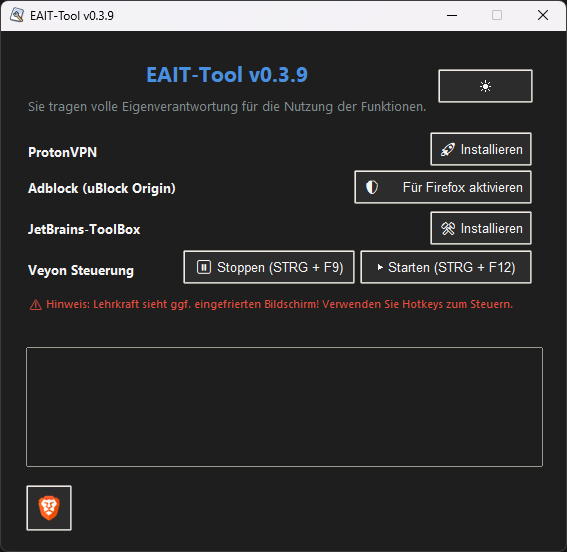
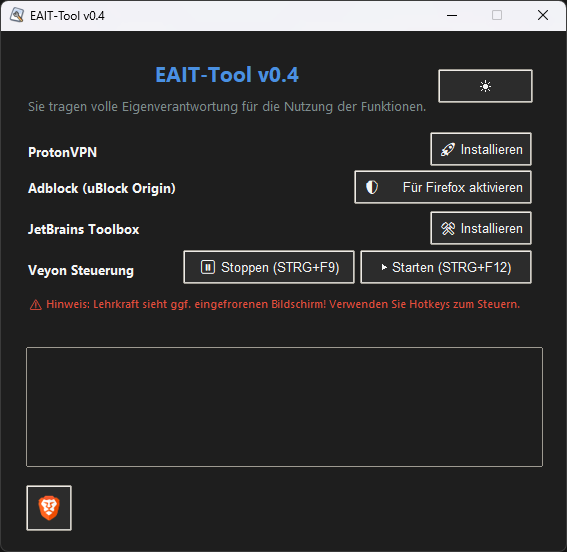
Update to v0.4

diff --git a/EAIT-Tool.py b/EAIT-Tool.py
@@ -1,186 +1,223 @@
-import traceback
+import os
+import sys
+import time
+import threading
+import tkinter as tk
+from tkinter import ttk
 from config import VERSION
 from admin import *
 from functions import *
 from veyon import *
-from tkinter import *
-from tkinter import ttk
-import tkinter as tk
 import PIL.Image
 import PIL.ImageTk
-import traceback
-from config import VERSION
-from admin import *
-from functions import *
-from veyon import *
-
-# Wichtig für Brave Icon
-image_refs = {}
-
-# ---------------------- Window Setup ----------------------
 
 root = tk.Tk()
-root.title(f"EAIT-Tool v{VERSION()}")
-mainframe = ttk.Frame(root, padding=25)
-mainframe.grid(row=0, column=0, sticky="nsew")
-status_var = StringVar()
+root.withdraw()
 
-# Custom Cursor
-cursor_path = os.path.join(os.path.dirname(__file__), "adobe_normal.cur")
-cursor_string = f"@{cursor_path.replace(os.sep, '/')}"  # Windows-kompatibel machen!
-try:
-    root.config(cursor=cursor_string)
-    print("✅ Custom Cursor gesetzt:", cursor_string)
-except Exception as e:
-    print("❌ Cursor Error:", e)
-    root.config(cursor="arrow")
+status_var = None
+status_label = None
+image_refs = {}
 
-# Modernes Design-Setup
-BG_COLOR = "#F3F3F3"
-ACCENT_COLOR = "#4a90e2"
-WARNING_COLOR = "#e74c3c"
-FONT_FAMILY = "Segoe UI"
+def show_loading_screen(parent_root):
+    loading = tk.Toplevel(parent_root)
+    loading.title("EAIT-Tool is loading...")
+    loading.configure(bg="#1e1e1e")
+    loading.resizable(False, False)
+    loading.attributes("-topmost", True)
+    loading.overrideredirect(True)
 
-# Icon setzen
-try:
-    icon_path = resource_path(os.path.join("data", "icon.ico"))
-    root.iconbitmap(default=icon_path)
-except Exception as e:
-    print(f"⚠ Icon konnte nicht gesetzt werden: {e}")
+    # Fenster zentrieren
+    win_w, win_h = 400, 120
+    screen_w = loading.winfo_screenwidth()
+    screen_h = loading.winfo_screenheight()
+    x = (screen_w // 2) - (win_w // 2)
+    y = (screen_h // 2) - (win_h // 2)
+    loading.geometry(f"{win_w}x{win_h}+{x}+{y}")
 
-root.configure(bg=BG_COLOR)
-window_width = 565
-window_height = 520  
+    # Dunkelblaues Adobe-Theme
+    style = ttk.Style(loading)
+    style.theme_use('clam')
+    style.configure(
+        "Adobe.Horizontal.TProgressbar",
+        troughcolor="#2A2A2A",
+        background="#1A5496",
+        bordercolor="#1A5496",
+        lightcolor="#1A5496",
+        darkcolor="#1A5496",
+    )
 
-screen_width = root.winfo_screenwidth()
-screen_height = root.winfo_screenheight()
+    label = tk.Label(loading, text="Loading EAIT-Tool...", fg="white", bg="#1e1e1e", font=("Segoe UI", 12))
+    label.pack(pady=(20, 5))
 
-center_x = int(screen_width/2 - window_width/2)
-center_y = int(screen_height/2 - window_height/2)
+    # Wichtig: mode="indeterminate" → Endlos-Balken
+    progress = ttk.Progressbar(
+        loading,
+        orient="horizontal",
+        mode="indeterminate",
+        length=300,
+        style="Adobe.Horizontal.TProgressbar"
+    )
+    progress.pack(pady=(5, 10))
 
-root.geometry(f"{window_width}x{window_height}+{center_x}+{center_y}")
-root.resizable(False, False)
+    progress["value"] = 0
+    loading.update()
 
-# Style Configuration
-style = ttk.Style()
-style.theme_use('clam')
-style.configure('TFrame', background=BG_COLOR)
-style.configure('TLabel', background=BG_COLOR, foreground="black", font=(FONT_FAMILY, 10))
-style.configure('TButton', font=(FONT_FAMILY, 10), padding=6)
+    # Starte Endlos-Animation
+    progress.start(10)  # alle 10ms Schritt; je höher, desto schneller die Animation
 
-# Main Frame
-root.grid_rowconfigure(0, weight=1)
-root.grid_columnconfigure(0, weight=1)
+    def init_tasks():
+        try:
+            # ----------------
+            # 1) Admin Check
+            if not is_admin():
+                loading.destroy()
+                sys.exit(1)
 
-# ---------------------- GUI Setup ----------------------
+            # 2) build_main_gui
+            build_main_gui()
 
-# Header Section
-header_frame = ttk.Frame(mainframe)
-header_frame.grid(row=0, column=0, columnspan=2, pady=(0, 15), sticky="ew")
-# Theme Toggle Button im Header
-theme_btn_text = StringVar(value="     ☀")  
-theme_btn = ttk.Button(header_frame, textvariable=theme_btn_text, command=lambda: toggle_theme(theme_btn_text))
-theme_btn.pack(side="right", padx=10)
+            # 3) Hotkeys
+            start_stop_hotkeys()
 
-ttk.Label(header_frame, 
-         text=f"EAIT-Tool v{VERSION()}", 
-         font=(FONT_FAMILY, 16, "bold"), 
-         foreground=ACCENT_COLOR).pack(side="top")
+            # 4) apply_theme
+            apply_theme()
 
-ttk.Label(header_frame, 
-         text="Sie tragen volle Eigenverantwortung für die Nutzung der Funktionen.",
-         font=(FONT_FAMILY, 10), 
-         foreground="#7f8c8d").pack(side="top", pady=(5, 0))
+            # 5) Cursor
+            set_custom_cursors(parent_root,
+                resource_path("data/adobe_normal.cur"),
+                resource_path("data/adobe_click.cur")
+            )
+            # usw... was du willst
 
-# Tools Grid
-tools_grid = ttk.Frame(mainframe)
-tools_grid.grid(row=1, column=0, columnspan=2, sticky="ew")
+        except Exception as e:
+            print(f"Fehler: {e}")
+            # evtl. label.config(text="Fehler...")
+            # und/oder sys.exit
+        finally:
+            # Alle Tasks fertig → Indeterminate Bar stoppen
+            root.after(0, lambda: [
+                progress.stop(),
+                loading.destroy(),
+                parent_root.deiconify()
+            ])
 
-# VPN Section
-ttk.Label(tools_grid, text="ProtonVPN", font=(FONT_FAMILY, 10, "bold")).grid(row=0, column=0, sticky="w", pady=(10,5))
-ttk.Button(tools_grid, 
-         text="🚀 Installieren", 
-         command=start_protonvpn_portable,
-         style="Accent.TButton").grid(row=0, column=1, sticky="e")
+    # Thread starten, damit GUI nicht blockiert wird
+    threading.Thread(target=init_tasks, daemon=True).start()
 
-# Adblock Section
-ttk.Label(tools_grid, text="Adblock (uBlock Origin)", font=(FONT_FAMILY, 10, "bold")).grid(row=1, column=0, sticky="w", pady=10)
-ttk.Button(tools_grid, 
-         text="🛡 Für Firefox aktivieren", 
-         command=install_adblock).grid(row=1, column=1, sticky="e")
+def build_main_gui():
+    global status_var, status_label
 
-# Toolbox Section
-ttk.Label(tools_grid, text="JetBrains-ToolBox", font=(FONT_FAMILY, 10, "bold")).grid(row=2, column=0, sticky="w", pady=10)
-ttk.Button(tools_grid, 
-         text="⚒ Installieren", 
-         command=start_toolbox_portable).grid(row=2, column=1, sticky="e")
+    root.title(f"EAIT-Tool v{VERSION()}")
+    mainframe = ttk.Frame(root, padding=25)
+    mainframe.grid(row=0, column=0, sticky="nsew")
+    status_var = tk.StringVar()
 
-# Veyon Section
-ttk.Label(tools_grid, text="Veyon Steuerung", font=(FONT_FAMILY, 10, "bold")).grid(row=3, column=0, sticky="w", pady=(10,5))
-btn_frame = ttk.Frame(tools_grid)
-btn_frame.grid(row=3, column=1, sticky="e")
+    # Cursor
+    cursor_path = resource_path(os.path.join("data", "adobe_normal.cur"))
+    try:
+        root.config(cursor=f"@{cursor_path.replace(os.sep, '/')}")
+    except Exception as e:
+        print(f"⚠ Cursor-Setzen fehlgeschlagen: {e}")
+        root.config(cursor="arrow")
 
-ttk.Button(btn_frame, 
-         text="⏸ Stoppen (STRG + F9)", 
-         command=lambda: toggle_process_state(True),
-         width=22).pack(side="left", padx=5)
-ttk.Button(btn_frame, 
-         text="▶ Starten (STRG + F12)", 
-         command=clear_and_restart_veyon,
-         width=22).pack(side="left")
+    BG_COLOR = "#F3F3F3"
+    ACCENT_COLOR = "#4a90e2"
+    WARNING_COLOR = "#e74c3c"
+    FONT_FAMILY = "Segoe UI"
 
-# Warning Label
-ttk.Label(tools_grid, 
-         text="⚠ Hinweis: Lehrkraft sieht ggf. eingefrierten Bildschirm! Verwenden Sie Hotkeys zum Steuern.",
-         foreground=WARNING_COLOR,
-         font=(FONT_FAMILY, 8)).grid(row=4, column=0, columnspan=2, sticky="w", pady=(10,20))
+    # Icon
+    try:
+        icon_path = resource_path(os.path.join("data", "icon.ico"))
+        root.iconbitmap(default=icon_path)
+    except:
+        pass
 
-# Status Panel
-status_panel = ttk.Frame(mainframe, relief="solid", borderwidth=1)
-status_panel.grid(row=2, column=0, columnspan=2, sticky="ew", pady=(15,0))
+    # Root basic setup
+    root.configure(bg=BG_COLOR)
+    w, h = 565, 520
+    screen_w = root.winfo_screenwidth()
+    screen_h = root.winfo_screenheight()
+    root.geometry(f"{w}x{h}+{(screen_w - w)//2}+{(screen_h - h)//2}")
+    root.resizable(False, False)
 
-status_label = tk.Label(
-    status_panel,
-    textvariable=status_var,
-    fg=WARNING_COLOR,
-    bg="#ffffff",
-    font=(FONT_FAMILY, 9),
-    padx=15,
-    pady=12,
-    wraplength=550,
-    justify="left",
-    height=6  
-)
-status_label.pack(fill="both", expand=True)
-set_status_refs(status_var, status_label)
+    # ttk Style
+    style = ttk.Style()
+    style.theme_use('clam')
+    style.configure('TFrame', background=BG_COLOR)
+    style.configure('TLabel', background=BG_COLOR, foreground="black", font=(FONT_FAMILY, 10))
+    style.configure('TButton', font=(FONT_FAMILY, 10), padding=6)
 
-# Action Buttons (unten links)
-action_frame = ttk.Frame(root)
-action_frame.place(relx=0.0, rely=1.0, anchor="sw", x=20, y=-20)
+    root.grid_rowconfigure(0, weight=1)
+    root.grid_columnconfigure(0, weight=1)
 
-# Brave Button
-try:
-    brave_img = PIL.Image.open(resource_path(os.path.join("data", "brave_32x32.png"))).resize((28, 28))
-    brave_icon = PIL.ImageTk.PhotoImage(brave_img)
-    image_refs["brave"] = brave_icon  # ⬅ Speichert das Icon dauerhaft
-    ttk.Button(action_frame, 
-               image=brave_icon, 
-               command=start_brave_and_cleanup_threaded).pack(side="left", padx=5)
-except Exception as e:
-    print(f"⚠ Brave-Icon Fehler: {e}")
+    # ---------------- GUI Content ----------------
+    header = ttk.Frame(mainframe)
+    header.grid(row=0, column=0, columnspan=2, pady=(0, 15), sticky="ew")
+    theme_btn_text = tk.StringVar(value="     ☀")
+    ttk.Button(header, textvariable=theme_btn_text, command=lambda: toggle_theme(theme_btn_text)).pack(side="right", padx=10)
+    ttk.Label(header, text=f"EAIT-Tool v{VERSION()}", font=(FONT_FAMILY, 16, "bold"), foreground=ACCENT_COLOR).pack()
+    ttk.Label(header, text="Sie tragen volle Eigenverantwortung für die Nutzung der Funktionen.", font=(FONT_FAMILY, 10), foreground="#7f8c8d").pack(pady=(5, 0))
 
-set_root_ref(root)
-set_globals(root, status_var, status_label)
-start_stop_hotkeys()
-apply_theme()
-set_custom_cursors(root, os.path.join("data", "adobe_normal.cur"), os.path.join("data", "adobe_click.cur"))
+    tools = ttk.Frame(mainframe)
+    tools.grid(row=1, column=0, columnspan=2, sticky="ew")
+
+    # ProtonVPN Buttons
+    ttk.Label(tools, text="ProtonVPN", font=(FONT_FAMILY, 10, "bold")).grid(row=0, column=0, sticky="w", pady=(10,5))
+    ttk.Button(tools, text="🚀 Installieren", command=start_protonvpn_portable).grid(row=0, column=1, sticky="e")
+
+    # Adblock Buttons
+    ttk.Label(tools, text="Adblock (uBlock Origin)", font=(FONT_FAMILY, 10, "bold")).grid(row=1, column=0, sticky="w", pady=10)
+    ttk.Button(tools, text="🛡 Für Firefox aktivieren", command=install_adblock).grid(row=1, column=1, sticky="e")
+
+    # JetBrains Buttons
+    ttk.Label(tools, text="JetBrains Toolbox", font=(FONT_FAMILY, 10, "bold")).grid(row=2, column=0, sticky="w", pady=10)
+    ttk.Button(tools, text="⚒ Installieren", command=start_toolbox_portable).grid(row=2, column=1, sticky="e")
+
+    # Veyon Buttons
+    ttk.Label(tools, text="Veyon Steuerung", font=(FONT_FAMILY, 10, "bold")).grid(row=3, column=0, sticky="w", pady=(10,5))
+    btn_frame = ttk.Frame(tools)
+    btn_frame.grid(row=3, column=1, sticky="e")
+    ttk.Button(btn_frame, text="⏸ Stoppen (STRG+F9)", command=lambda: toggle_process_state(True), width=22).pack(side="left", padx=5)
+    ttk.Button(btn_frame, text="▶ Starten (STRG+F12)", command=clear_and_restart_veyon, width=22).pack(side="left")
+
+    # Hinweis
+    ttk.Label(tools, text="⚠ Hinweis: Lehrkraft sieht ggf. eingefrorenen Bildschirm! Verwenden Sie Hotkeys zum Steuern.", 
+              foreground=WARNING_COLOR, font=(FONT_FAMILY, 8)).grid(row=4, column=0, columnspan=2, sticky="w", pady=(10,20))
+
+    # Status Box
+    status_panel = ttk.Frame(mainframe, relief="solid", borderwidth=1)
+    status_panel.grid(row=2, column=0, columnspan=2, sticky="ew", pady=(15,0))
+    status_label_ = tk.Label(status_panel, textvariable=status_var, fg=WARNING_COLOR, bg="#ffffff", 
+                             font=(FONT_FAMILY, 9), padx=15, pady=12, wraplength=550, justify="left", height=6)
+    status_label_.pack(fill="both", expand=True)
+
+    # unten links Buttons
+    action_frame = ttk.Frame(root)
+    action_frame.place(relx=0.0, rely=1.0, anchor="sw", x=20, y=-20)
+    try:
+        brave_img = PIL.Image.open(resource_path(os.path.join("data", "brave_32x32.png"))).resize((28, 28))
+        brave_icon = PIL.ImageTk.PhotoImage(brave_img)
+        image_refs["brave"] = brave_icon
+        ttk.Button(action_frame, image=brave_icon, command=start_brave_and_cleanup_threaded).pack(side="left", padx=5)
+    except:
+        pass
+
+    set_root_ref(root)
+    set_globals(root, status_var, status_label_)
+    apply_theme()
+    set_custom_cursors(root, os.path.join("data", "adobe_normal.cur"), os.path.join("data", "adobe_click.cur"))
 
 def safe_mainloop():
     try:
         root.mainloop()
     except Exception as e:
+        import traceback
         import tkinter.messagebox
-        tkinter.messagebox.showerror("Fehler", f"{e}")
+        tkinter.messagebox.showerror("Fehler", str(e))
         traceback.print_exc()
-        input("Drücke Enter zum Schließen...")
-safe_mainloop()
+        input("Drück Enter zum Schließen...")
+
+# ----------------------------------------------
+# LAUNCH:
+show_loading_screen(root)  # Zeig Ladescreen
+safe_mainloop()            # Mainloop

diff --git a/config.py b/config.py
@@ -1,2 +1,2 @@
 def VERSION():
-    return '0.3.9'
+    return '0.4'

diff --git a/CHANGELOG.md b/CHANGELOG.md
@@ -1,6 +1,10 @@
-## [0.3.9](https://github.com/Androidlate/EAIT-Tool/releases/tag/v0.3.9)
+## [0.4]
+## Added
+- Loading Screen
+## [0.3.9]
 ### Removed
 - Change System Time functionality (fully removed due to incompatibility on school computers)
+### Fixed
 - Minor internal improvements
 ## [0.3.8]
 ### Added

diff --git a/README.md b/README.md
@@ -9,7 +9,7 @@ A powerful and lightweight Windows tool designed for educational use – develop
 
 
 
-## 📦 Version: `v0.3.9`  
+## 📦 Version: `v0.4`  
 📜 [View Changelog →](./CHANGELOG.md)
 
 
